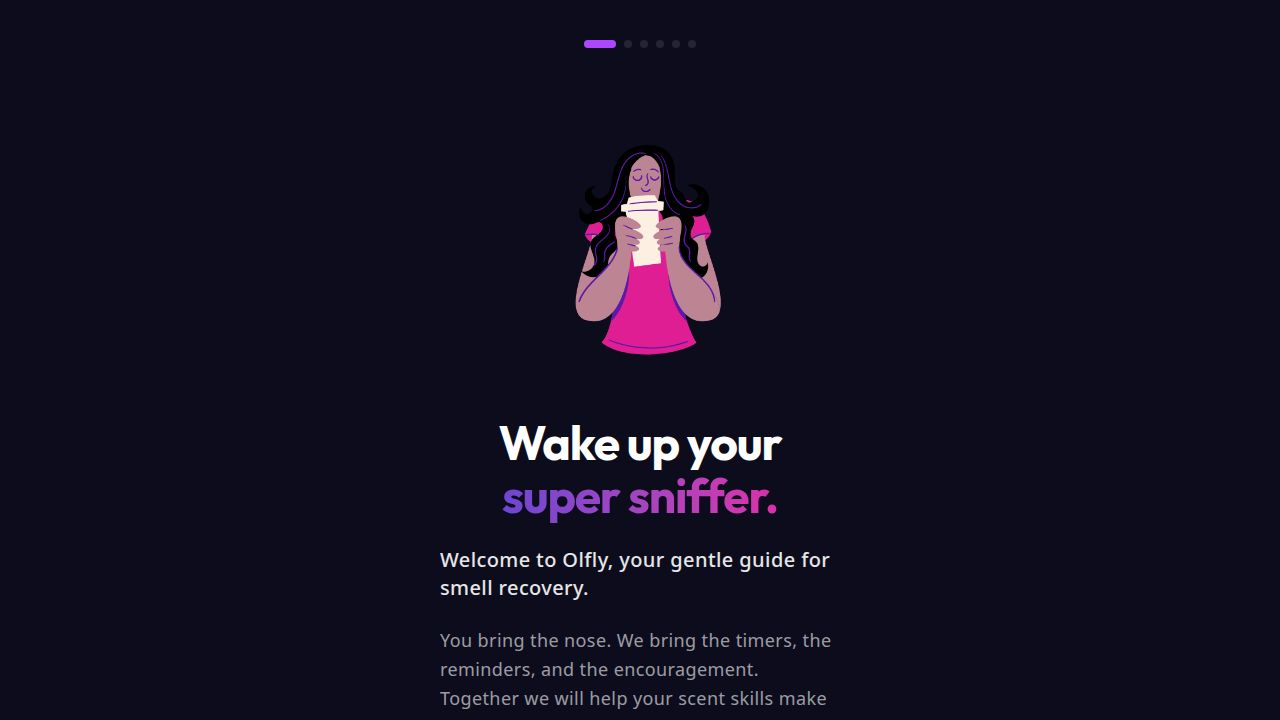
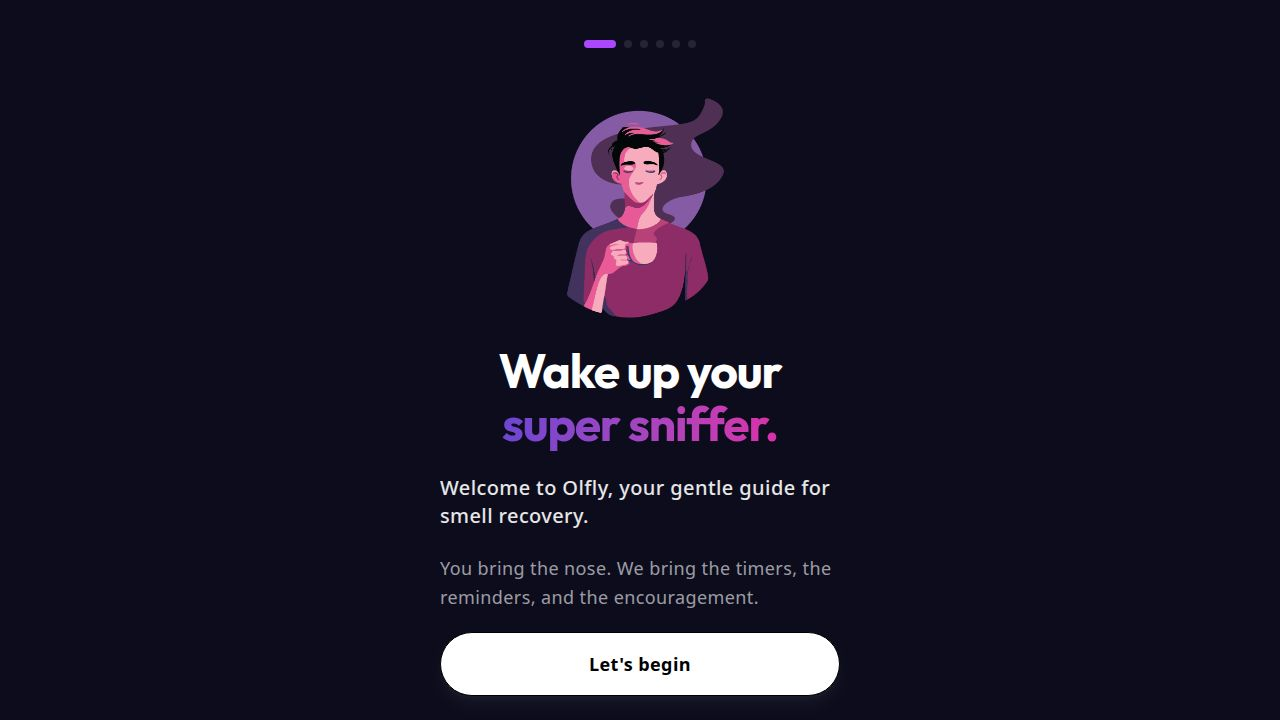
Update onboarding screens with new graphics and styling
Adjust the onboarding flow by replacing placeholder images with specified graphics, resizing image containers, and increasing text size for quotes.

Replit-Commit-Author: Agent
Replit-Commit-Session-Id: fac5df56-df85-4746-8be4-0f009da6a694
Replit-Commit-Checkpoint-Type: full_checkpoint
Replit-Commit-Event-Id: 1883013c-9824-47a2-bea4-b5ef6dbdfe1a
Replit-Commit-Screenshot-Url: https://storage.googleapis.com/screenshot-production-us-central1/d95a715f-a07a-4951-916d-d6802aed9233/fac5df56-df85-4746-8be4-0f009da6a694/P2Gqe6A

Changed region(s): [[0.3438, 0.1222, 0.6562, 0.7333], [0.3438, 0.7639, 0.6562, 0.9778]]

diff --git a/client/src/pages/Onboarding.tsx b/client/src/pages/Onboarding.tsx
@@ -3,12 +3,14 @@ import { useLocation } from "wouter";
 import { motion, AnimatePresence } from "framer-motion";
 import { Button } from "@/components/ui/button";
 import { Switch } from "@/components/ui/switch";
-import { Check, Clock, ArrowRight } from "lucide-react";
+import { Clock, ArrowRight } from "lucide-react";
 import { Logo } from "@/components/Logo";
 import { useCurrentUser } from "@/lib/useCurrentUser";
 import { ALL_SCENTS } from "@/lib/data";
 
-import onboardingIllustration from '@assets/Blue_Modern_Minimalist_Circle_Letter_O_Business_Consulting_Log_1764747155862.png';
+import topToddImg from '@assets/Top_Todd_1767067979878.png';
+import lowerGinaImg from '@assets/Lower_Gina_1767067979877.png';
+import lowerLiuImg from '@assets/Lower_Liu_1767067979878.png';
 
 const QUIZ_QUESTIONS = [
   {
@@ -70,11 +72,11 @@ export default function Onboarding() {
     exit: { x: -20, opacity: 0 }
   };
 
-  const Block = ({ children, className = "", delay = 0 }: { children: React.ReactNode, className?: string, delay?: number }) => (
+  const Block = ({ children, className = "" }: { children: React.ReactNode, className?: string }) => (
     <motion.div 
         initial={{ opacity: 0, y: 20 }}
         animate={{ opacity: 1, y: 0 }}
-        transition={{ delay, duration: 0.4, ease: "easeOut" }}
+        transition={{ duration: 0.4, ease: "easeOut" }}
         className={`bg-[#3b1645] rounded-[2rem] p-6 border border-white/5 shadow-xl ${className}`}
     >
         {children}
@@ -119,9 +121,9 @@ export default function Onboarding() {
                             initial={{ scale: 0.9, opacity: 0 }}
                             animate={{ scale: 1, opacity: 1 }}
                             transition={{ duration: 0.5 }}
-                            className="w-64 h-64 md:w-72 md:h-72 mx-auto mb-8"
+                            className="w-48 h-48 md:w-56 md:h-56 mx-auto mb-6"
                         >
-                            <img src={onboardingIllustration} alt="Olfly Illustration" className="w-full h-full object-contain" />
+                            <img src={topToddImg} alt="Welcome" className="w-full h-full object-contain" />
                         </motion.div>
 
                         <h1 className="text-4xl md:text-5xl font-bold mb-4 md:mb-6 tracking-tight leading-[1.1] text-center">
@@ -162,16 +164,16 @@ export default function Onboarding() {
                     className="flex-1 flex flex-col"
                 >
                     <h2 className="text-3xl md:text-4xl font-bold mb-4">Quick check-in</h2>
-                    <p className="text-white/70 text-lg leading-relaxed mb-8">
+                    <p className="text-white/70 text-lg leading-relaxed mb-6">
                         Let's understand where you're at with your sense of smell.
                     </p>
                     
-                    <Block className="flex-1 flex flex-col justify-center mb-6">
-                        <div className="text-center mb-8">
+                    <Block className="flex-1 flex flex-col justify-center mb-4">
+                        <div className="text-center mb-6">
                             <span className="text-white/40 text-sm uppercase tracking-wider">Question {quizStep + 1} of {QUIZ_QUESTIONS.length}</span>
                         </div>
                         
-                        <h3 className="text-xl md:text-2xl font-bold text-center mb-8 leading-tight">
+                        <h3 className="text-xl md:text-2xl font-bold text-center mb-6 leading-tight">
                             {QUIZ_QUESTIONS[quizStep].question}
                         </h3>
                         
@@ -270,16 +272,16 @@ export default function Onboarding() {
                     animate="center"
                     exit="exit"
                     transition={{ duration: 0.4 }}
-                    className="flex-1 flex flex-col"
+                    className="flex-1 flex flex-col relative"
                 >
-                    <div className="mb-6 md:mb-8">
+                    <div className="mb-4">
                         <h2 className="text-3xl md:text-4xl font-bold mb-4">Pick your<br/>sniff schedule</h2>
                         <p className="text-white/70 text-lg leading-relaxed">
                             Choose when you want Olfly to remind you to train.
                         </p>
                     </div>
 
-                    <Block className="mb-6 space-y-4 md:space-y-6">
+                    <Block className="mb-4 space-y-4 md:space-y-6">
                          <div className="flex items-center justify-between">
                             <span className="text-lg md:text-xl font-bold">Reminders</span>
                             <Switch checked={remindersEnabled} onCheckedChange={setRemindersEnabled} className="data-[state=checked]:bg-[#ac41c3]" />
@@ -322,11 +324,22 @@ export default function Onboarding() {
                         )}
                     </Block>
 
-                    <div className="mt-auto mb-6 text-center space-y-2">
+                    <div className="text-center mb-2">
                         <p className="text-white/60 italic">"Morning sniff or evening sniff. Or both."</p>
                     </div>
                     
-                    <div className="pb-4 md:pb-0">
+                    <div className="flex-1 flex items-end justify-center overflow-hidden">
+                        <motion.img 
+                            src={lowerGinaImg} 
+                            alt="" 
+                            initial={{ y: 100, opacity: 0 }}
+                            animate={{ y: 0, opacity: 1 }}
+                            transition={{ delay: 0.2, duration: 0.5 }}
+                            className="w-48 md:w-56 object-contain"
+                        />
+                    </div>
+                    
+                    <div className="pb-4 md:pb-0 mt-4">
                          <Button 
                             onClick={nextStep}
                             className="w-full h-14 md:h-16 rounded-[2rem] bg-white text-black hover:bg-white/90 text-base md:text-lg font-bold shadow-lg shadow-white/5"
@@ -359,21 +372,26 @@ export default function Onboarding() {
                          </p>
                     </div>
                     
-                    <Block className="flex-1 mb-6 relative overflow-hidden flex flex-col min-h-[200px]">
-                         <div className="absolute top-0 right-0 w-64 h-64 bg-[#ac41c3]/10 rounded-full blur-3xl -mr-10 -mt-10" />
-                         
-                         <div className="relative z-10 flex-1 flex flex-col justify-center items-center text-center space-y-6">
-                             <div className="w-16 h-16 rounded-full bg-gradient-to-br from-[#6d45d2] to-[#db2faa] flex items-center justify-center shadow-lg shadow-[#ac41c3]/30">
-                                <Check size={32} className="text-white" />
-                             </div>
-                             <div>
-                                 <h3 className="text-xl font-bold text-white mb-2">"Slow progress is still progress."</h3>
-                                 <p className="text-white/50 text-sm">Your brain is literally rewiring.</p>
-                             </div>
-                         </div>
-                    </Block>
+                    <div className="flex-1 flex flex-col justify-center items-center text-center px-4">
+                        <motion.h3 
+                            initial={{ scale: 0.9, opacity: 0 }}
+                            animate={{ scale: 1, opacity: 1 }}
+                            transition={{ delay: 0.2, duration: 0.5 }}
+                            className="text-3xl md:text-4xl lg:text-5xl font-bold text-white leading-tight"
+                        >
+                            "Slow progress<br/>is still progress."
+                        </motion.h3>
+                        <motion.p 
+                            initial={{ opacity: 0 }}
+                            animate={{ opacity: 1 }}
+                            transition={{ delay: 0.4, duration: 0.5 }}
+                            className="text-white/50 text-lg mt-6"
+                        >
+                            Your brain is literally rewiring.
+                        </motion.p>
+                    </div>
 
-                    <div className="pb-4 md:pb-0">
+                    <div className="pb-4 md:pb-0 mt-auto">
                         <Button 
                             onClick={nextStep}
                             className="w-full h-14 md:h-16 rounded-[2rem] bg-[#ac41c3] text-white hover:bg-[#9e3bb3] text-base md:text-lg font-bold shadow-lg shadow-[#ac41c3]/20"
@@ -393,14 +411,14 @@ export default function Onboarding() {
                     animate="center"
                     exit="exit"
                     transition={{ duration: 0.4 }}
-                    className="flex-1 flex flex-col justify-center py-8"
+                    className="flex-1 flex flex-col py-4"
                 >
-                    <div className="text-center mb-8 md:mb-12">
-                        <div className="flex justify-center mb-8">
+                    <div className="text-center mb-6">
+                        <div className="flex justify-center mb-6">
                             <Logo size="xl" />
                         </div>
-                        <h2 className="text-4xl md:text-5xl font-bold mb-6">Your nose<br/>is ready.</h2>
-                        <div className="space-y-4 max-w-xs mx-auto">
+                        <h2 className="text-4xl md:text-5xl font-bold mb-4">Your nose<br/>is ready.</h2>
+                        <div className="space-y-3 max-w-xs mx-auto">
                             <p className="text-white/80 text-lg">
                                 You've got this. Olfly is with you every day.
                             </p>
@@ -410,9 +428,20 @@ export default function Onboarding() {
                         </div>
                     </div>
                     
-                    <div className="mt-auto w-full space-y-6 pb-4 md:pb-0">
+                    <div className="flex-1 flex items-end justify-center overflow-hidden">
+                        <motion.img 
+                            src={lowerLiuImg} 
+                            alt="" 
+                            initial={{ y: 100, opacity: 0 }}
+                            animate={{ y: 0, opacity: 1 }}
+                            transition={{ delay: 0.2, duration: 0.5 }}
+                            className="w-56 md:w-64 object-contain"
+                        />
+                    </div>
+                    
+                    <div className="w-full space-y-4 pb-4 md:pb-0 mt-4">
                         <div className="text-center">
-                            <p className="text-white font-bold text-lg mb-2">"Welcome to the Sniff Squad."</p>
+                            <p className="text-white font-bold text-lg mb-1">"Welcome to the Sniff Squad."</p>
                             <p className="text-white/40 text-sm">Let's begin the great smell comeback.</p>
                         </div>
                         
